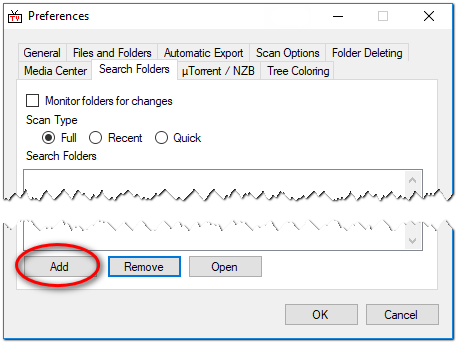
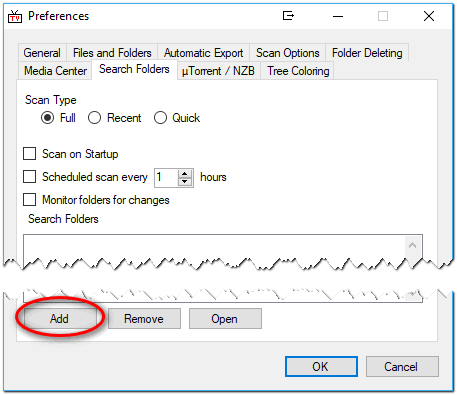
Update Images

Changed region(s): [[0.0, 0.0, 1.0, 1.0], [0.2144, 0.6414, 0.5514, 0.6997], [0.5514, 0.6414, 0.6433, 0.6997]]

diff --git a/_manual/options.md b/_manual/options.md
@@ -59,10 +59,12 @@ The _**Search Folders**_ tab is used to tell TV&nbsp;Rename where to look for TV
 
 Three buttons are available at the bottom of the tab. `Add` opens an explorer style window so you can browse to the folder location you wish to add and click `OK`, `Remove` removes a highlighted row from the panel and `Open` opens an explorer window targeting the row highlighted in the panel.
 
-At the top of the tab the "Monitor folders for changes" tick box tell TV&nbsp;Rename to automatically check for new files in the identified locations and the ["Scan Type"]({{ site.baseurl }}/manual/user#scan) radio buttons tell TV&nbsp;Rename the type of scan to perform if anything is found.
+At the top of the tab the ["Scan Type"]({{ site.baseurl }}/manual/user#scan) radio buttons tell TV&nbsp;Rename the type of scan to perform when searching for new shows. Ticking "Scan on Startup" tells TVnbsp;Rename to perform the selected scan when the program starts,  ticking "Scheduled scan..." will force a repeat scan every "X" hours and finally, ticking "Monitor folders for changes" will tell  TV&nbsp;Rename to check for new files in the identified locations???.
 
-| *Defaults:* | "Folder Monitor" | _**Un-ticked**_ |
-| | "Scan type" | _**Full**_ |
+| *Defaults:* | "Scan Type" | _**Full**_ |
+|   | "Scan on Startup" | _**Un-ticked**_ |
+|   | "Scheduled scan every" | _**Un-ticked - 1 hour**_ |
+|   | "Monitor folders for changes" | _**Un-ticked**_
 
 {:.toplink}
 [Return to Top]()
